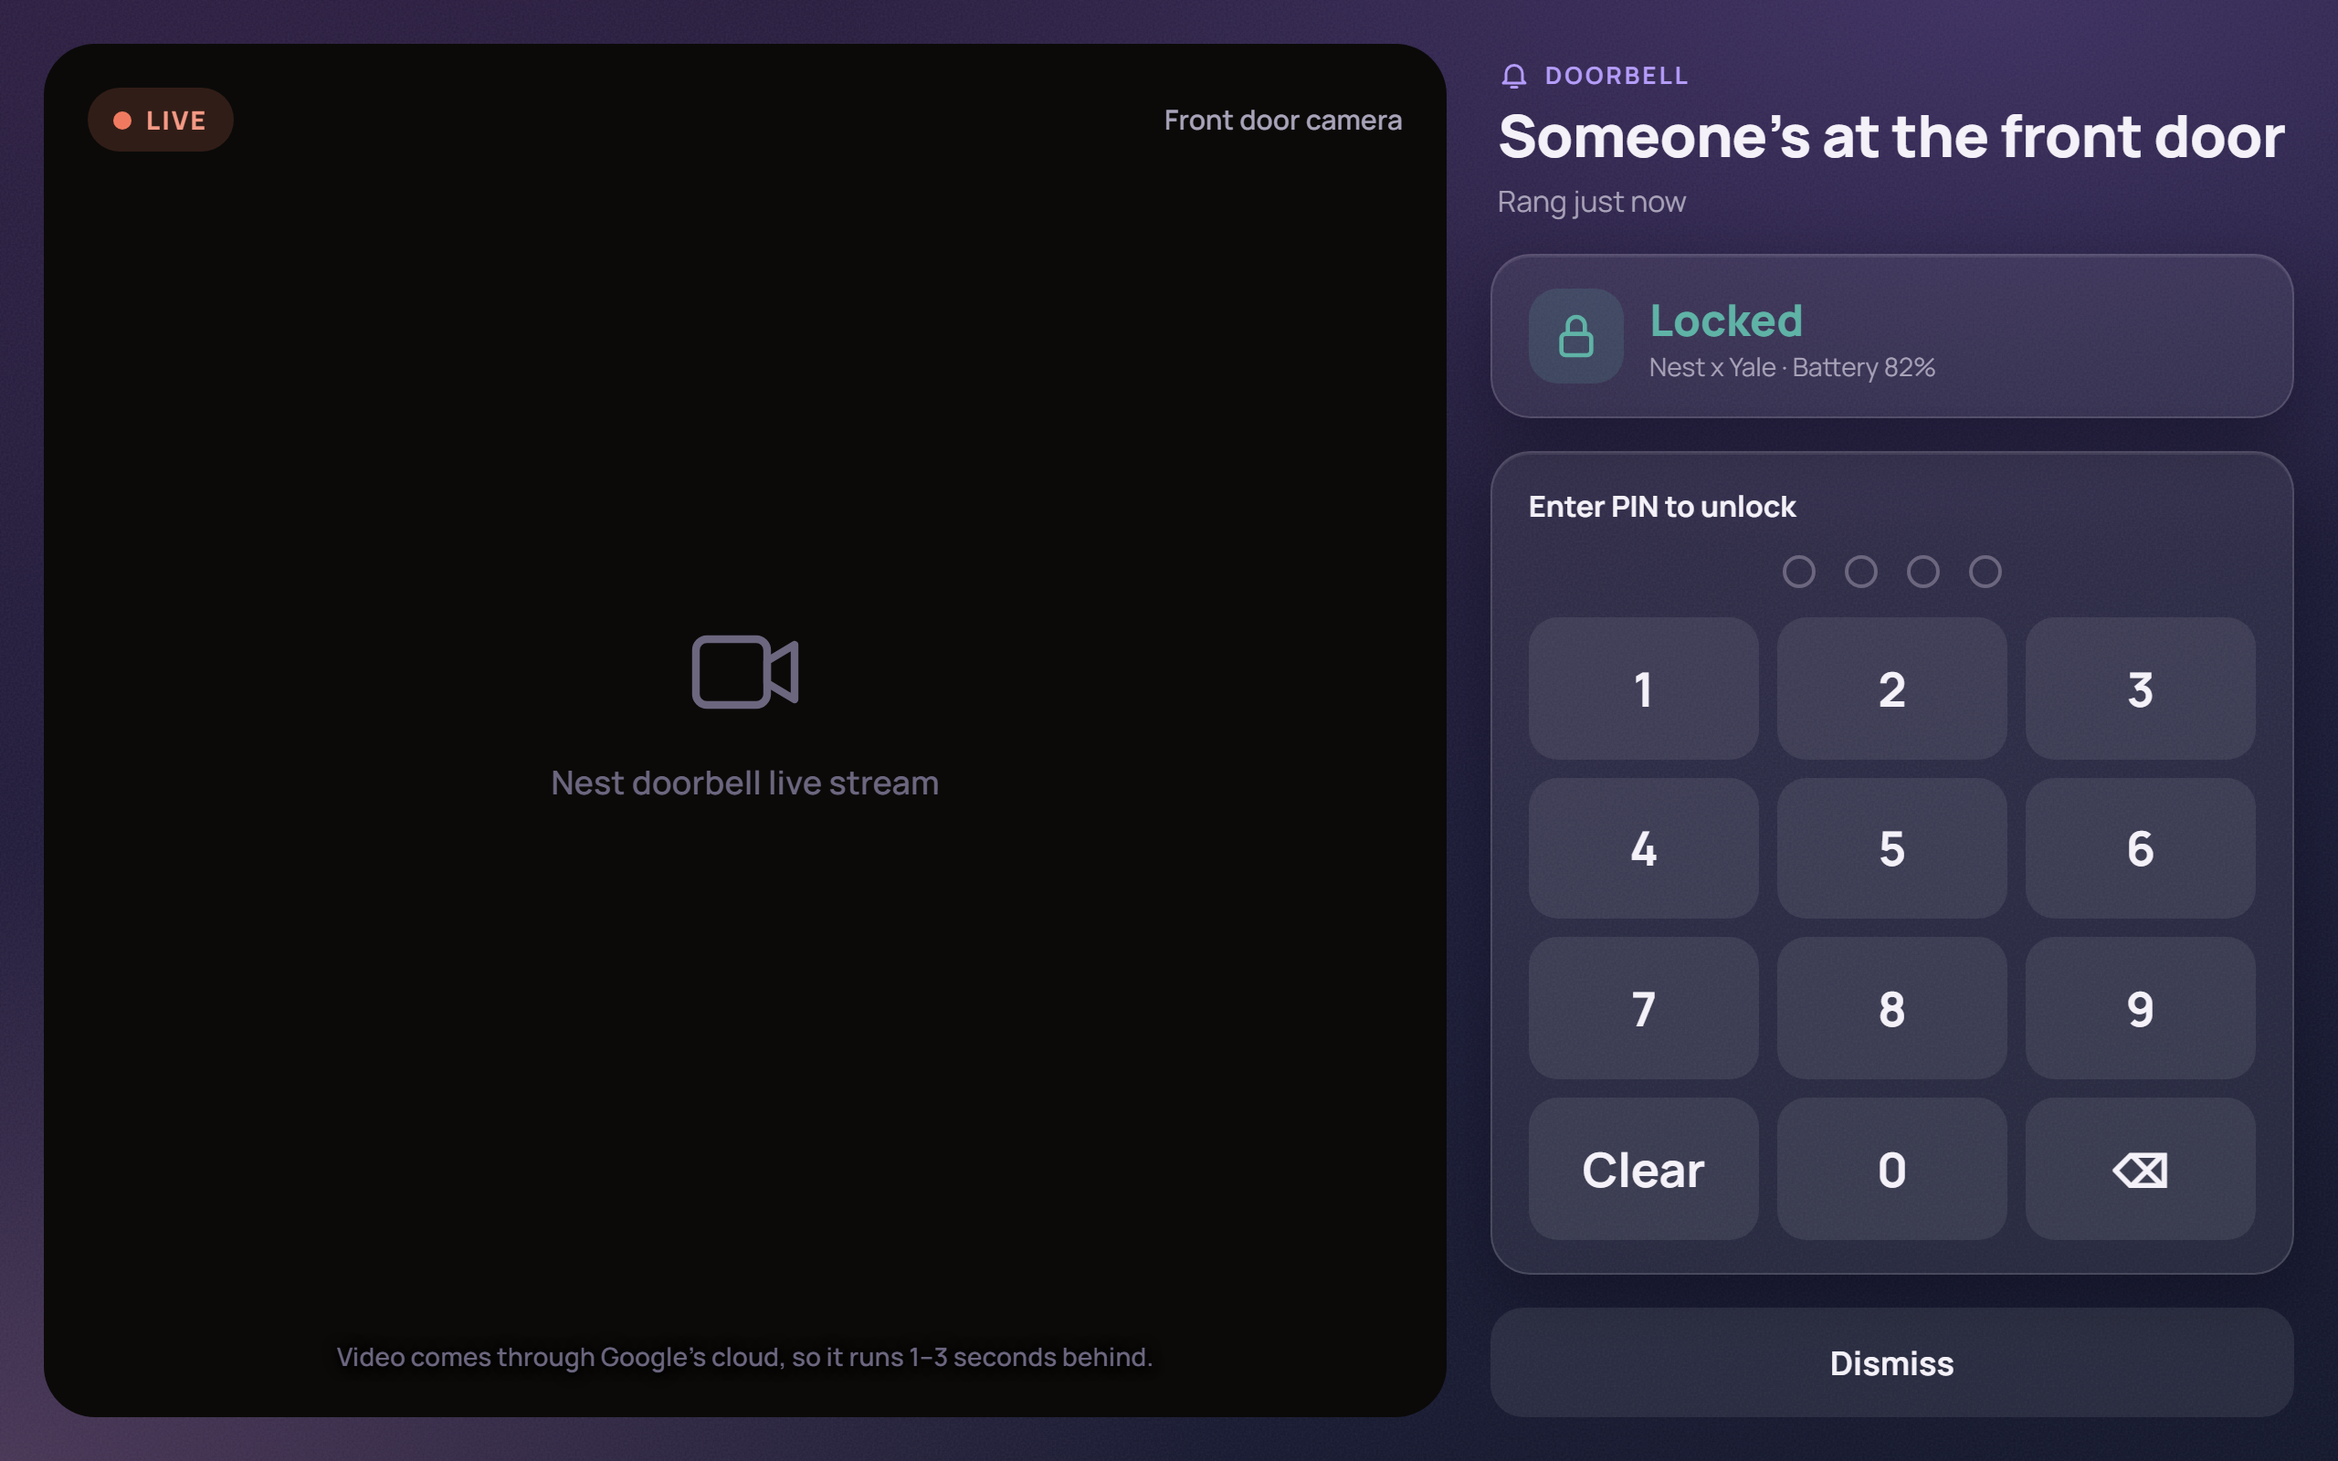
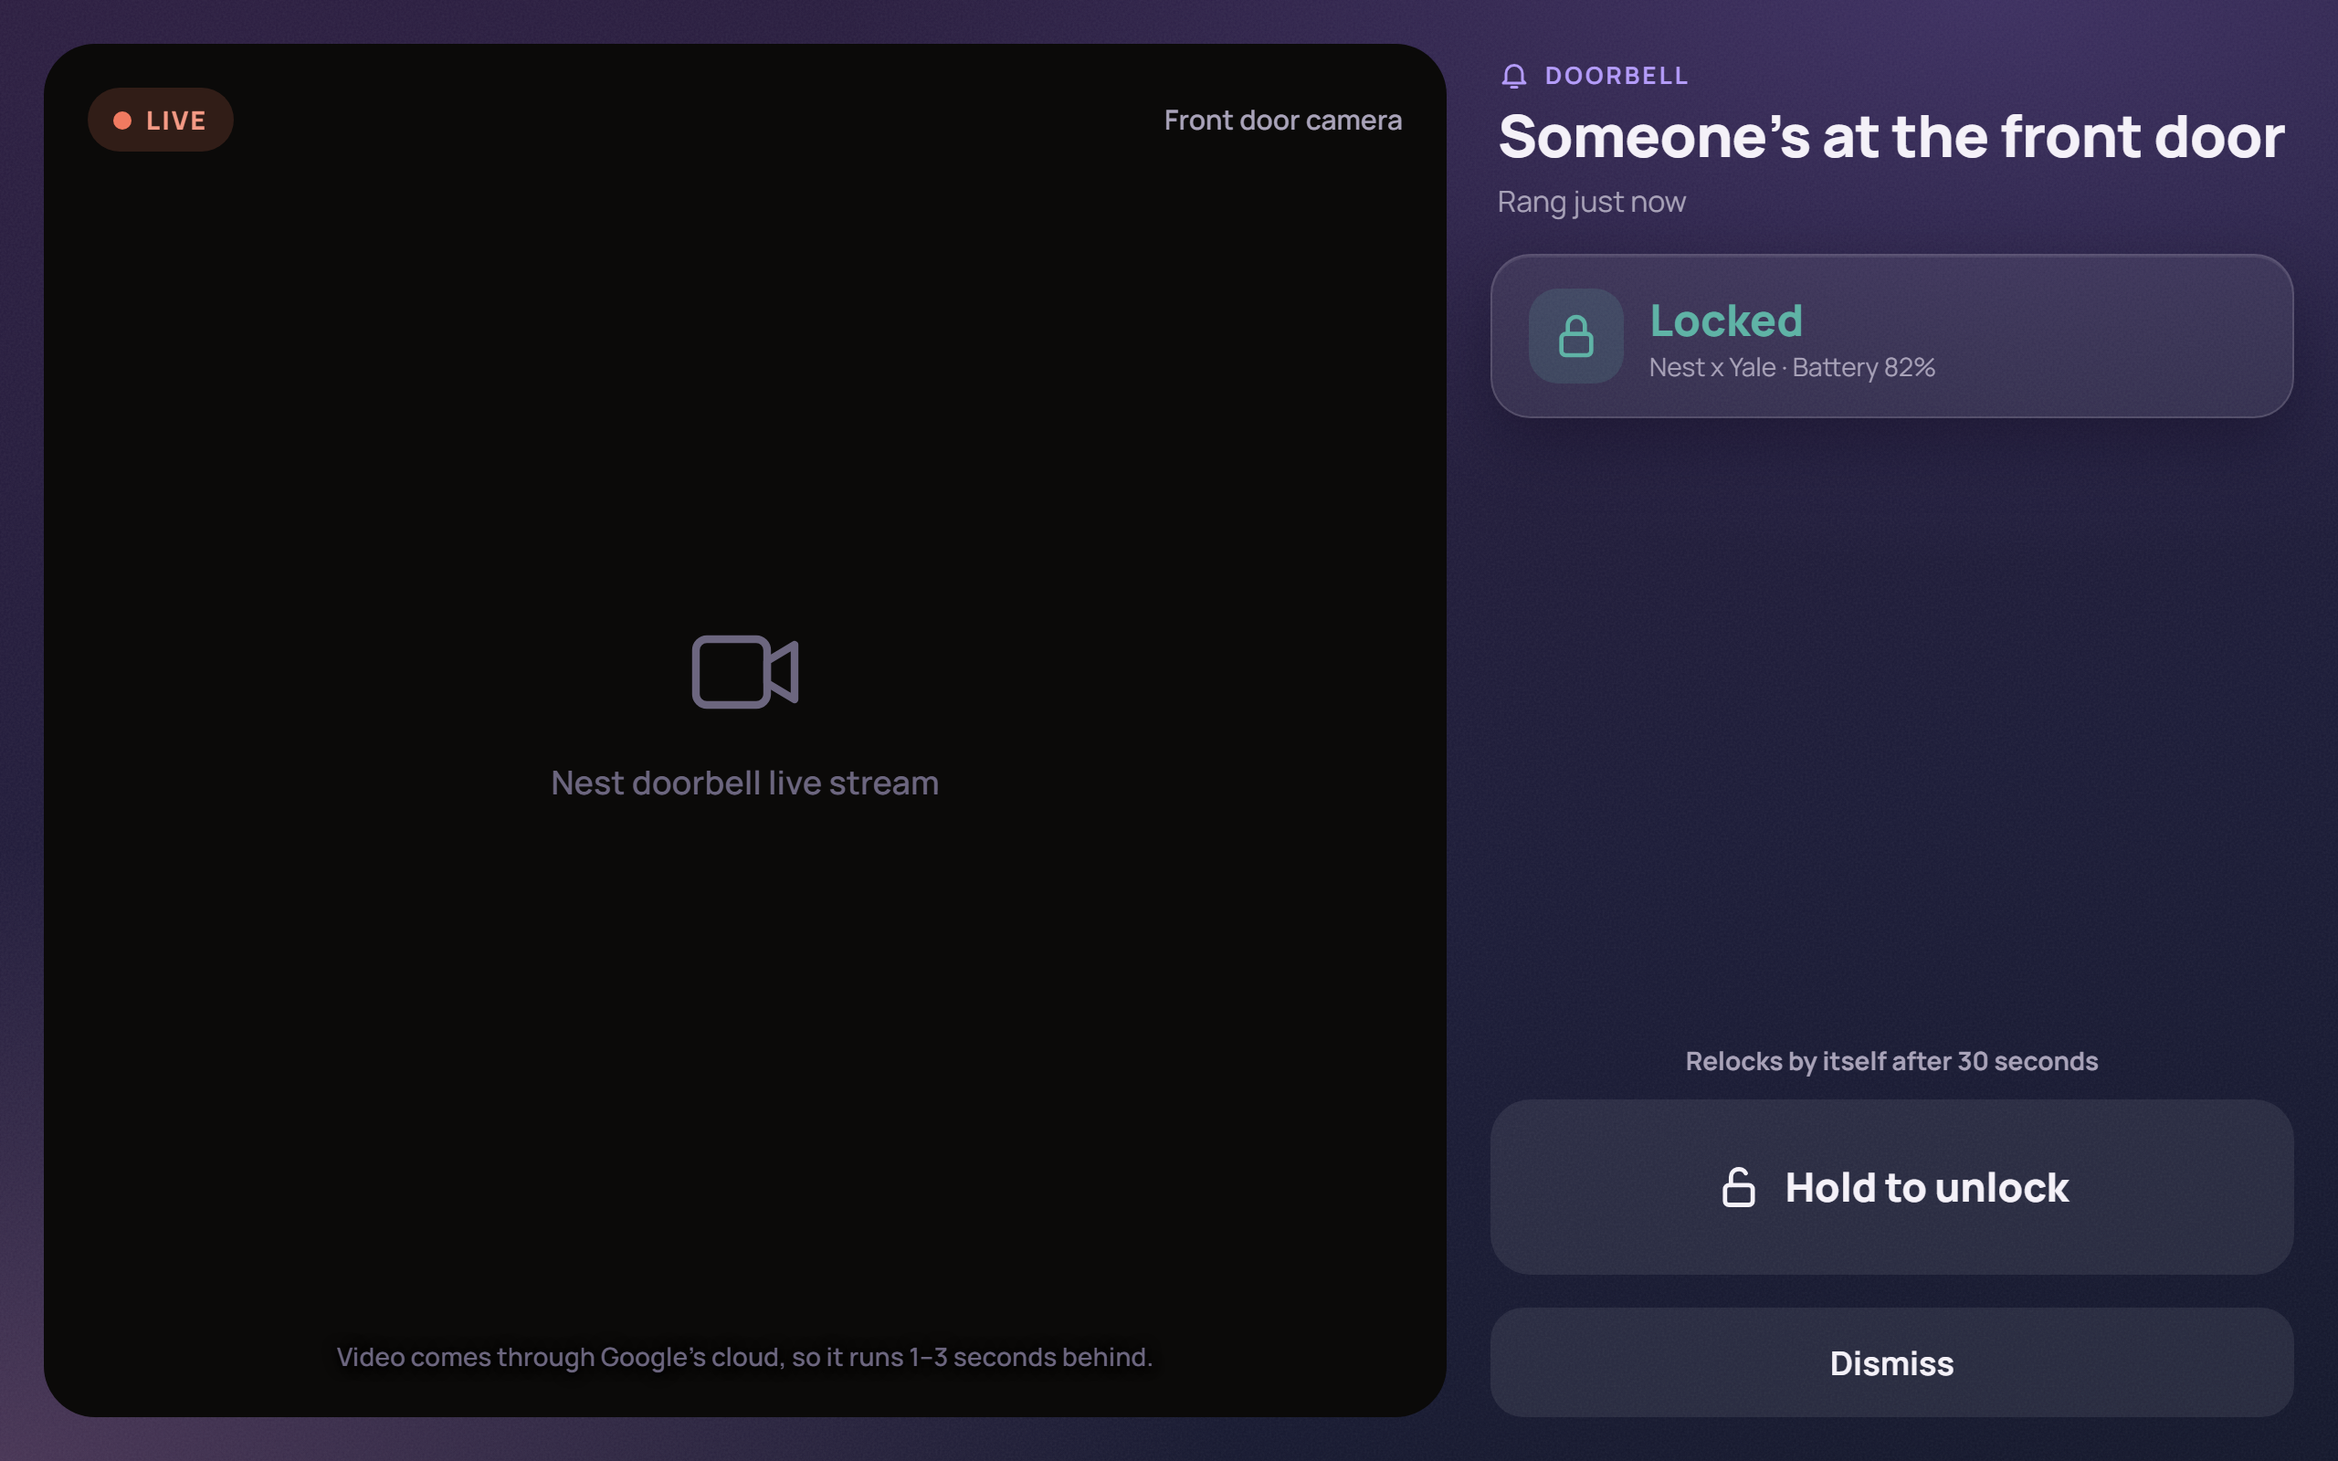
Door: hold to unlock by default; the PIN pad becomes an option (door.pin)

diff --git a/src/screens/Door.tsx b/src/screens/Door.tsx
@@ -1,5 +1,5 @@
 import { useEffect, useRef, useState } from 'preact/hooks';
-import { adapter, act } from '../hub';
+import { adapter, act, config, params } from '../hub';
 import { useStore, useTick } from '../store';
 import { doorReturn, goBack, navigate, type Route } from '../router';
 import { Icon } from '../components/Icon';
@@ -15,6 +15,10 @@ const KEYS: [string, string, string][] = [
 ];
 
 const RECENT_RING_MS = 10 * 60e3;
+const HOLD_MS = 1000;
+
+/** PIN pad only when config.door.pin is on (?pinpad in mock mode, for its tests). */
+const usePin = () => !!config.door?.pin || (adapter.isMock && params.has('pinpad'));
 
 export function Door({ route }: { route: Route }) {
   useTick(500);
@@ -56,6 +60,15 @@ export function Door({ route }: { route: Route }) {
     else if (res.reason === 'error') setMsg({ text: res.message ?? 'Couldn’t unlock', error: true });
   }
 
+  async function holdUnlock() {
+    if (busy || !canUnlock) return;
+    setMsg(null);
+    setBusy(true);
+    const res = await act(adapter.unlock(), 'Couldn’t reach the lock. Try again.');
+    setBusy(false);
+    if (res && !res.ok) setMsg({ text: res.message ?? 'Couldn’t unlock', error: true });
+  }
+
   const dismiss = () => (route.query.has('ring') ? navigate(doorReturn.path, true) : goBack('/'));
 
   let status = msg;
@@ -88,6 +101,13 @@ export function Door({ route }: { route: Route }) {
           <div class="door-unlocked">
             <button type="button" class="btn door-lock-now" onClick={() => act(adapter.lock())}><Icon name="lock" size={24} stroke={2.2} />Lock now</button>
           </div>
+        ) : canUnlock && !usePin() ? (
+          <div class="door-unlocked">
+            <span class="door-pin-msg door-hold-msg" role="status" style={{ color: msg?.error ? 'var(--alert-text)' : 'var(--muted)' }}>
+              {busy ? 'Unlocking…' : msg?.text ?? 'Relocks by itself after ' + (config.door?.relockSeconds ?? 30) + ' seconds'}
+            </span>
+            <HoldButton disabled={busy} onHeld={holdUnlock} />
+          </div>
         ) : canUnlock ? (
           <div class="door-pin card">
             <div class="door-pin-head">
@@ -106,7 +126,7 @@ export function Door({ route }: { route: Route }) {
         ) : (
           <div class="door-pin card door-pin-off">
             <span>{!lock ? 'The lock isn’t connected yet.'
-              : !lock.pinUnlock && lock.state === 'locked' ? 'Unlocking with a PIN from the kitchen isn’t set up yet.'
+              : !lock.pinUnlock && lock.state === 'locked' ? 'Unlocking from the kitchen isn’t set up yet.'
               : 'The lock can’t be controlled right now.'}</span>
           </div>
         )}
@@ -114,6 +134,28 @@ export function Door({ route }: { route: Route }) {
         <button type="button" class="btn door-dismiss" onClick={dismiss}>Dismiss</button>
       </aside>
     </div>
+  );
+}
+
+/** Unlock needs a 1-second press so a stray tap (or a curious kid) doesn't open the door. */
+function HoldButton({ disabled, onHeld }: { disabled: boolean; onHeld: () => void }) {
+  const [holding, setHolding] = useState(false);
+  const timer = useRef<ReturnType<typeof setTimeout> | undefined>(undefined);
+  const start = () => {
+    if (disabled || timer.current) return;
+    setHolding(true);
+    timer.current = setTimeout(() => { timer.current = undefined; setHolding(false); onHeld(); }, HOLD_MS);
+  };
+  const cancel = () => { clearTimeout(timer.current); timer.current = undefined; setHolding(false); };
+  useEffect(() => cancel, []);
+  return (
+    <button type="button" class={'btn door-hold' + (holding ? ' holding' : '')} disabled={disabled} aria-label="Hold to unlock"
+      onPointerDown={start} onPointerUp={cancel} onPointerLeave={cancel} onPointerCancel={cancel} onContextMenu={(e) => e.preventDefault()}
+      onKeyDown={(e) => { if ((e.key === 'Enter' || e.key === ' ') && !e.repeat) { e.preventDefault(); start(); } }}
+      onKeyUp={(e) => { if (e.key === 'Enter' || e.key === ' ') cancel(); }}>
+      <span class="door-hold-fill" style={{ transitionDuration: holding ? HOLD_MS + 'ms' : '150ms' }} />
+      <span class="door-hold-label"><Icon name="unlock" size={26} stroke={2.2} />{holding ? 'Keep holding…' : 'Hold to unlock'}</span>
+    </button>
   );
 }
 

diff --git a/tests/smoke.spec.ts b/tests/smoke.spec.ts
@@ -51,22 +51,40 @@ test('renders 03-cook at step 4 with a timer', async ({ page }) => {
   expect(errors).toEqual([]);
 });
 
-test('door: wrong PIN, right PIN, relock countdown, lock now', async ({ page }) => {
+test('door: a tap does nothing, a 1-second hold unlocks, lock now', async ({ page }) => {
   const errors = await open(page, '/door?ring=1');
   await expect(page.getByText('Someone’s at the front door')).toBeVisible();
   await shot(page, '02-door-locked');
+  const hold = page.getByRole('button', { name: 'Hold to unlock' });
+  await hold.click();
+  await page.waitForTimeout(1300);
+  await expect(page.getByText('Locked', { exact: true })).toBeVisible();
+  await hold.hover();
+  await page.mouse.down();
+  await page.waitForTimeout(1200);
+  await page.mouse.up();
+  await expect(page.getByText(/Relocks automatically in \d+s/)).toBeVisible();
+  await shot(page, '02-door-unlocked');
+  await page.getByRole('button', { name: 'Lock now' }).click();
+  await expect(hold).toBeVisible();
+  expect(errors).toEqual([]);
+});
+
+test('door (PIN pad): wrong PIN, right PIN, relock countdown, lock now', async ({ page }) => {
+  const errors: string[] = [];
+  page.on('pageerror', (e) => errors.push(e.message));
+  await page.goto(`/?mock=1&nodev=1&pinpad=1&now=${TUE_1745}#/door?ring=1`);
   for (const d of '1111') await page.getByLabel('Digit ' + d).click();
   await expect(page.getByText('Wrong PIN, try again')).toBeVisible();
   for (const d of '1234') await page.getByLabel('Digit ' + d).click();
   await expect(page.getByText(/Relocks automatically in \d+s/)).toBeVisible();
-  await shot(page, '02-door-unlocked');
   await page.getByRole('button', { name: 'Lock now' }).click();
   await expect(page.getByText('Enter PIN to unlock')).toBeVisible();
   expect(errors).toEqual([]);
 });
 
-test('door: three wrong PINs lock the pad', async ({ page }) => {
-  await open(page, '/door');
+test('door (PIN pad): three wrong PINs lock the pad', async ({ page }) => {
+  await page.goto(`/?mock=1&nodev=1&pinpad=1&now=${TUE_1745}#/door`);
   for (let i = 0; i < 3; i++) {
     for (const d of '9999') await page.getByLabel('Digit ' + d).click();
     await page.waitForTimeout(300);

diff --git a/src/data/ha-adapter.ts b/src/data/ha-adapter.ts
@@ -210,7 +210,7 @@ export class HaAdapter implements DataAdapter {
       lock: toLockState(
         this.entity(this.cfg.door?.lock),
         this.entity(this.cfg.door?.lastAction),
-        // PIN unlock goes through the HA script (kitchen_hub package), which checks the PIN server-side.
+        // Unlock goes through the HA script (kitchen_hub package), which also starts the relock timer.
         !!this.entity(this.cfg.door?.unlockScript),
         this.entity(PKG.relockTimer),
         this.entity(PKG.lockoutTimer),
@@ -507,10 +507,10 @@ export class HaAdapter implements DataAdapter {
   // ---- Front door lock ----
 
   /** PIN unlock through the package's script, which checks the PIN against secrets.yaml. */
-  async unlock(pin: string): Promise<UnlockResult> {
+  async unlock(pin?: string): Promise<UnlockResult> {
     const script = this.cfg.door?.unlockScript;
-    if (!this.conn || !script || !this.entity(script)) return { ok: false, reason: 'error', message: 'PIN unlock isn’t set up yet' };
-    const res = (await callService(this.conn, 'script', script.replace(/^script./, ''), { pin }, undefined, true)) as {
+    if (!this.conn || !script || !this.entity(script)) return { ok: false, reason: 'error', message: 'Unlocking from the kitchen isn’t set up yet' };
+    const res = (await callService(this.conn, 'script', script.replace(/^script./, ''), pin === undefined ? {} : { pin }, undefined, true)) as {
       response?: { ok?: boolean; reason?: string };
     };
     const r = res.response;

diff --git a/src/screens/door.css b/src/screens/door.css
@@ -44,3 +44,16 @@
 .door-media { object-fit: contain; background: #0B0A09; transition: opacity 200ms ease; }
 .door-watch { margin-top: 8px; height: 56px; padding: 0 22px; border-radius: 18px; background: var(--raised); color: var(--text); font-size: 17px; font-weight: 800; gap: 10px; }
 .door-live-note { text-shadow: 0 1px 3px #000, 0 0 8px #000; }
+
+/* Hold to unlock: the fill sweeps across while the button is held. */
+.door-hold-msg { text-align: center; }
+.door-hold {
+  position: relative; overflow: hidden; height: 96px; border-radius: 22px; background: var(--raised); color: var(--text);
+  font-size: 22px; font-weight: 800; touch-action: none; user-select: none; -webkit-user-select: none;
+}
+.door-hold:active { transform: none; filter: none; }
+.door-hold-fill { position: absolute; inset: 0; background: var(--accent); transform: scaleX(0); transform-origin: left; transition-property: transform; transition-timing-function: linear; }
+.door-hold.holding .door-hold-fill { transform: scaleX(1); }
+.door-hold-label { position: relative; display: flex; align-items: center; gap: 12px; }
+.door-hold.holding .door-hold-label { color: var(--on-accent); }
+.door-hold:disabled { opacity: 0.6; }

diff --git a/src/data/mock-adapter.ts b/src/data/mock-adapter.ts
@@ -326,13 +326,13 @@ export class MockAdapter implements DataAdapter {
 
   // ---- Door ----
 
-  async unlock(pin: string): Promise<UnlockResult> {
+  async unlock(pin?: string): Promise<UnlockResult> {
     await wait(250);
     const lock = this.online.lock;
     if (!lock) return { ok: false, reason: 'error', message: 'Lock not connected' };
     const t = nowMs();
     if (lock.pinLockoutUntil && lock.pinLockoutUntil > t) return { ok: false, reason: 'locked_out' };
-    if (pin !== DEMO_PIN) {
+    if (pin !== undefined && pin !== DEMO_PIN) {
       this.badPins = this.badPins.filter((x) => t - x < 5 * 60e3).concat(t);
       if (this.badPins.length >= 3) {
         this.badPins = [];

diff --git a/src/components/DevPanel.tsx b/src/components/DevPanel.tsx
@@ -42,7 +42,7 @@ export function DevPanel() {
       <button type="button" class="btn dev-btn" onClick={() => mock.setOffline(!mock.isOffline)}>
         {mock.isOffline ? 'Reconnect everything' : 'Show “Not connected” states'}
       </button>
-      <span class="dev-note">Demo PIN is 1234. Three wrong PINs lock the pad for 5 minutes.</span>
+      <span class="dev-note">Hold Unlock for 1 second. With ?pinpad: demo PIN 1234, three wrong PINs lock the pad for 5 minutes.</span>
     </div>
   );
 }

diff --git a/src/config.ts b/src/config.ts
@@ -17,7 +17,9 @@ export interface HubConfig {
     lock?: string;
     /** Nest x Yale "Last Action" sensor (Keypad / Physical / Remote). */
     lastAction?: string;
+    /** HA script the Unlock control runs. Without a PIN: hold to unlock; with door.pin: the PIN pad (checked by the script). */
     unlockScript?: string;
+    pin?: boolean;
     relockSeconds: number;
   };
   climate: { name: string; entity: string }[];

diff --git a/src/data/adapter.ts b/src/data/adapter.ts
@@ -302,7 +302,8 @@ export interface DataAdapter {
   setPresetAll(preset: string): Promise<void>;
 
   // Door
-  unlock(pin: string): Promise<UnlockResult>;
+  /** pin only when config.door.pin is on; otherwise the press-and-hold control unlocks directly. */
+  unlock(pin?: string): Promise<UnlockResult>;
   lock(): Promise<void>;
 
   // TV

diff --git a/ha/README-ha-setup.md b/ha/README-ha-setup.md
@@ -581,6 +581,7 @@ The file `ha/packages/kitchen_hub.yaml` in this repo adds everything the kitchen
 **Check:**
 
 - `script.kitchen_unlock_front_door`, `timer.kitchen_door_relock`, `timer.kitchen_door_lockout` and `input_boolean.kitchen_meal_rule_quick` appear in **Tools → States**.
-- On the kitchen screen's **Door** page, the PIN pad appears. A wrong PIN says "Wrong PIN, try again", and three wrong PINs lock the pad for 5 minutes. The right PIN unlocks the door and starts a 30-second relock countdown. Stand by the door the first time.
+- On the kitchen screen's **Door** page, **Hold to unlock** unlocks the door after a 1-second press (a quick tap does nothing) and starts a 30-second relock countdown. Stand by the door the first time.
+- **Want a PIN instead?** In , set  to  and  to . The PIN pad appears: a wrong PIN says "Wrong PIN, try again", and three wrong PINs lock the pad for 5 minutes.
 
-**To change the PIN later:** edit `secrets.yaml`, then **Tools → YAML → Scripts → Reload** (or restart).
+**To change the PIN later** (PIN mode only): edit `secrets.yaml`, then **Tools → YAML → Scripts → Reload** (or restart).

diff --git a/README.md b/README.md
@@ -24,7 +24,7 @@ Open <http://localhost:5173/?mock=1>. In Chrome DevTools, use the device toolbar
 Mock mode runs every screen on sample data. It turns on automatically when no Home Assistant URL is configured, or with `?mock=1`.
 The small **Mock** button in the bottom-right corner opens test controls:
 
-- **Ring the doorbell:** the Door screen takes over from any screen. Demo PIN is `1234`; three wrong PINs lock the pad for 5 minutes.
+- **Ring the doorbell:** the Door screen takes over from any screen. Hold **Unlock** for a second to unlock. Add `?pinpad` for the PIN-pad version (`door.pin` in config.json): demo PIN `1234`, three wrong PINs lock the pad for 5 minutes.
 - **Home card:** force the school drop-off, pick-up or dinner card.
 - **Finish running timers in 3 s:** test the cook-timer alert without waiting.
 - **Vacuum: Get stuck / Bin full:** see the vacuum warnings on Home and the Vacuum screen.
